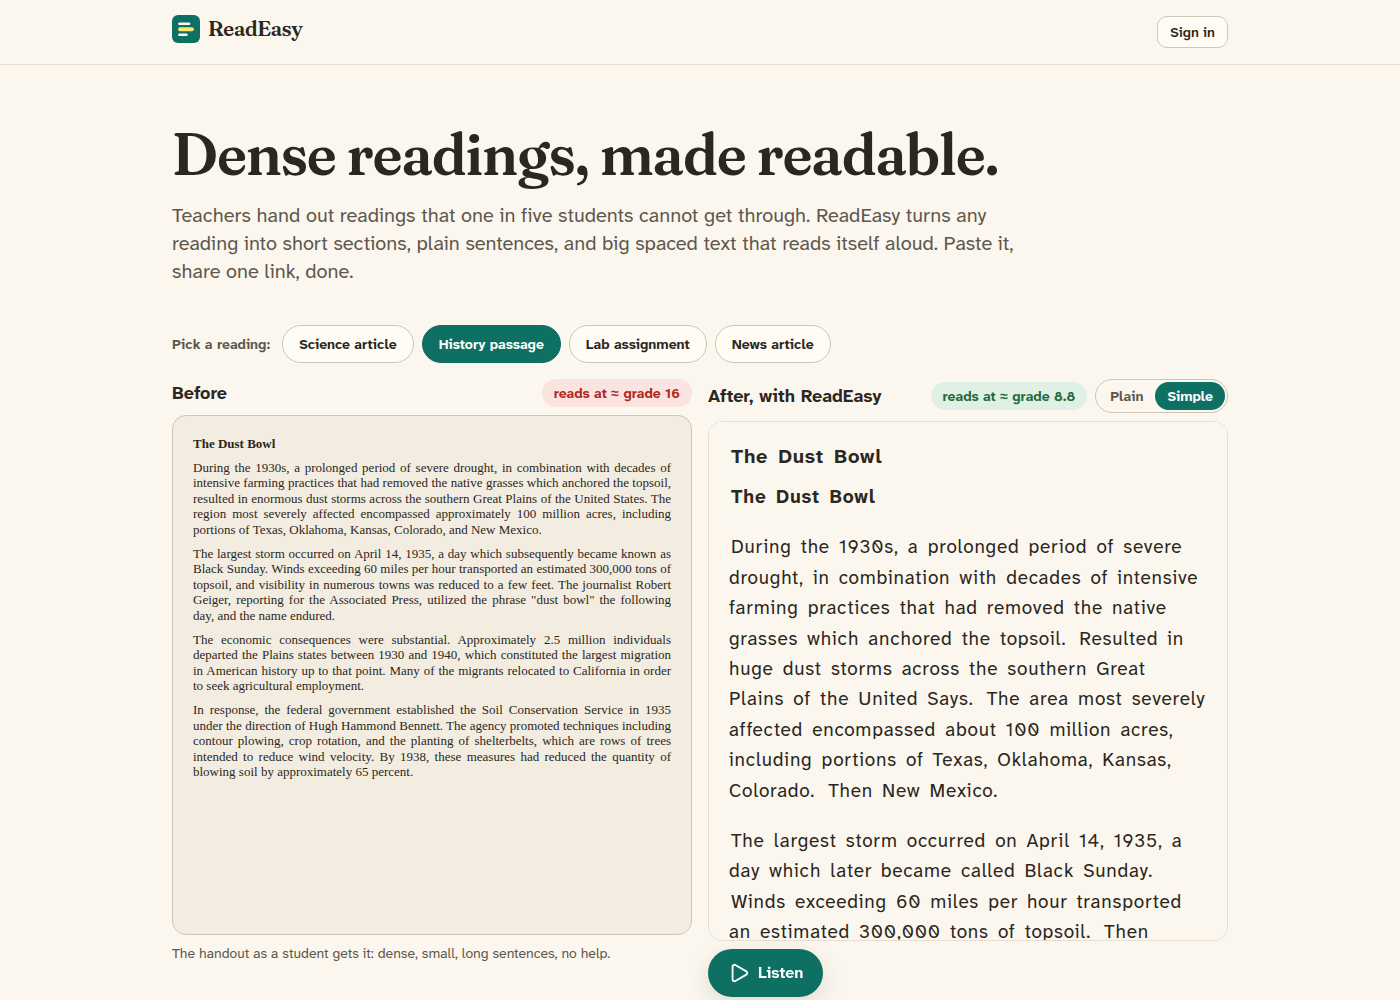
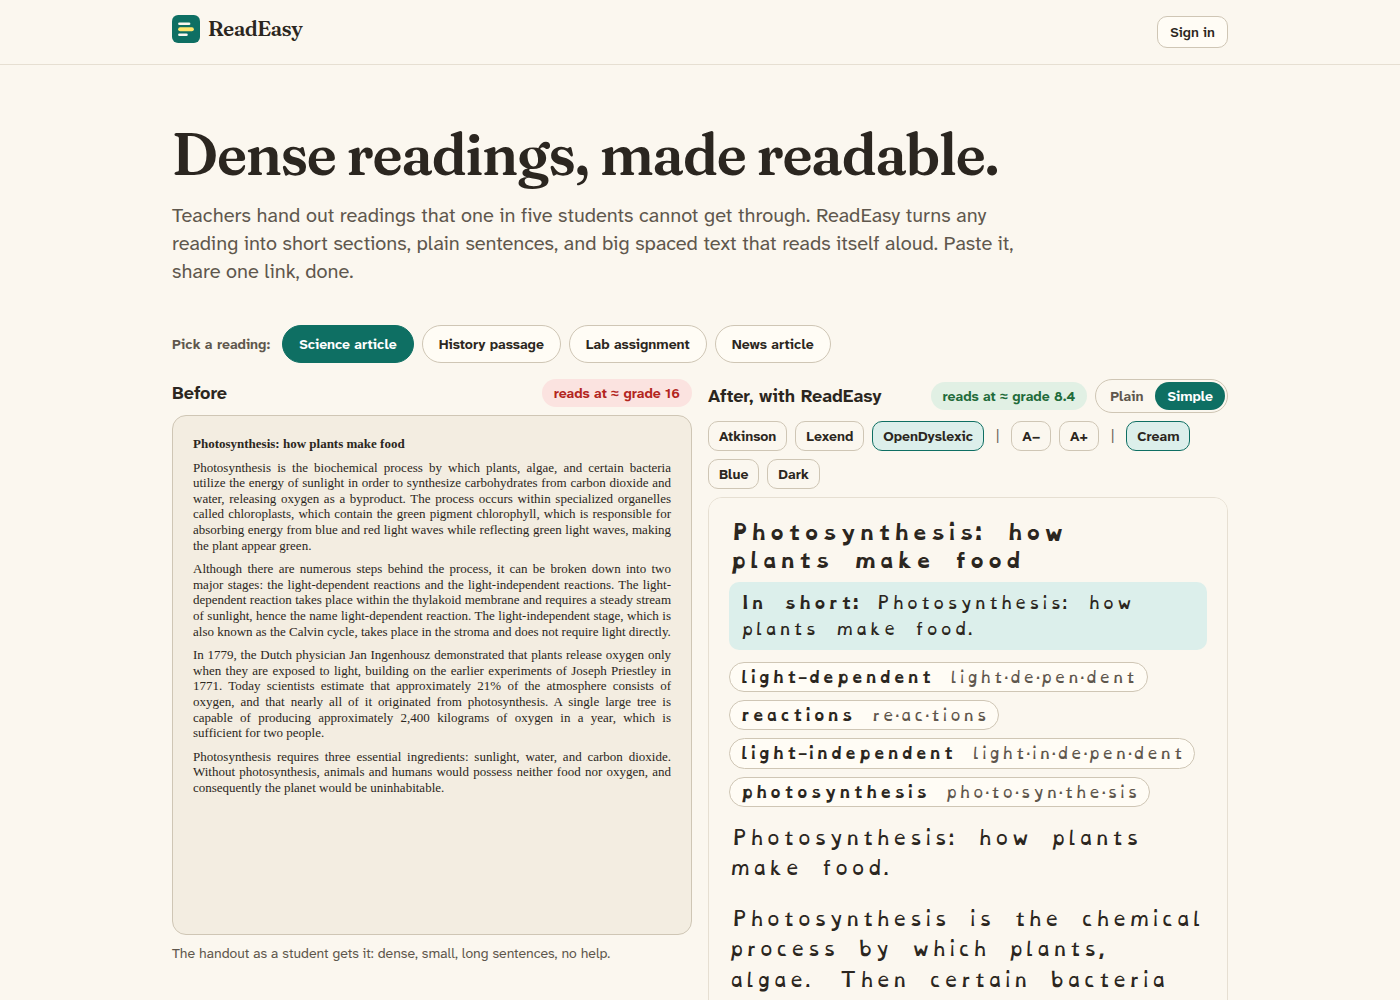
feat: stronger Simple rewrites and live reading settings in the demo
The adapter drops filler phrases, swaps about 80 more academic words and
verbs, and caps Simple sentences near 14 words. The landing demo's After
panel adds font (Atkinson, Lexend, OpenDyslexic), text size, and
background controls, an "In short" lead per section, and key words with
syllable breaks, so the reading supports are visible without an account.

Claude-Session: https://claude.ai/code/session_01D6wbTmJEeRBNkAtFhpGSF5

Changed region(s): [[0.1229, 0.403, 0.86, 1.0], [0.1843, 0.31, 0.3993, 0.372], [0.7986, 0.403, 0.86, 0.465]]

diff --git a/src/components/before-after.tsx b/src/components/before-after.tsx
@@ -9,15 +9,32 @@ import { SAMPLES, type Sample } from "@/lib/samples";
 import { chunkIntoSections, structureText } from "@/lib/text/chunk";
 import { simplifyContent, type Level } from "@/lib/text/simplify";
 import { estimateReadability, plainText } from "@/lib/text/readability";
+import { pickKeyWords } from "@/lib/text/wordpreview";
+import { syllabify } from "@/lib/text/syllables";
 import { createTtsEngine, type SpeakUnit, type TtsEngine, type TtsState } from "@/lib/tts";
 import type { SectionContent } from "@/lib/content/types";
 
 // The whole adaptation runs in the browser here (no server, no account), so
 // judges can click a sample and see the result instantly.
+function firstSentence(c: SectionContent): string {
+  for (const b of c.blocks) {
+    if (b.type === "paragraph" && b.sentences[0]) return b.sentences[0];
+    if (b.type === "list" && b.items[0]?.[0]) return b.items[0][0];
+  }
+  return "";
+}
+
 function adapt(text: string, level: Level) {
   const sections = chunkIntoSections(structureText(text));
-  return sections.map((s) => ({ title: s.title, original: s.original, adapted: simplifyContent(s.original, level) }));
+  return sections.map((s) => {
+    const adapted = simplifyContent(s.original, level);
+    const words = pickKeyWords(plainText(s.original), 4).map((w) => ({ word: w, syllables: syllabify(w) }));
+    return { title: s.title, original: s.original, adapted, lead: firstSentence(adapted), words };
+  });
 }
+
+type Font = "default" | "lexend" | "opendyslexic";
+type Bg = "cream" | "blue" | "dark";
 
 function units(sections: { title: string; adapted: SectionContent }[]): SpeakUnit[] {
   const out: SpeakUnit[] = [];
@@ -39,6 +56,9 @@ export function BeforeAfter() {
   const [state, setState] = useState<TtsState>("idle");
   const [current, setCurrent] = useState<string | null>(null);
   const [busy, setBusy] = useState(false);
+  const [font, setFont] = useState<Font>("default");
+  const [size, setSize] = useState(19);
+  const [bg, setBg] = useState<Bg>("cream");
   const engine = useRef<TtsEngine | null>(null);
 
   const sections = useMemo(() => adapt(sample.text, level), [sample, level]);
@@ -128,10 +148,28 @@ export function BeforeAfter() {
               </div>
             </div>
           </div>
-          <div data-reading-bg="cream" className="h-[520px] overflow-auto rounded-lg border border-border bg-surface p-5 text-ink" style={{ fontSize: 19, lineHeight: 1.6, letterSpacing: "0.04em", wordSpacing: "0.16em", maxWidth: "100%" }} aria-label="Adapted reading">
+          <div className="flex flex-wrap items-center gap-2 text-sm" role="group" aria-label="Reading settings">
+            {([["default", "Atkinson"], ["lexend", "Lexend"], ["opendyslexic", "OpenDyslexic"]] as const).map(([v, label]) => (
+              <button key={v} type="button" aria-pressed={font === v} onClick={() => setFont(v)} className={clsx("rounded-md border px-2.5 py-1 font-bold", font === v ? "border-accent bg-accent-soft" : "border-border-strong")}>{label}</button>
+            ))}
+            <span className="mx-1 text-ink-faint">|</span>
+            <button type="button" aria-label="Smaller text" onClick={() => setSize((n) => Math.max(15, n - 2))} className="rounded-md border border-border-strong px-2.5 py-1 font-bold">A−</button>
+            <button type="button" aria-label="Bigger text" onClick={() => setSize((n) => Math.min(30, n + 2))} className="rounded-md border border-border-strong px-2.5 py-1 font-bold">A+</button>
+            <span className="mx-1 text-ink-faint">|</span>
+            {([["cream", "Cream"], ["blue", "Blue"], ["dark", "Dark"]] as const).map(([v, label]) => (
+              <button key={v} type="button" aria-pressed={bg === v} onClick={() => setBg(v)} className={clsx("rounded-md border px-2.5 py-1 font-bold", bg === v ? "border-accent bg-accent-soft" : "border-border-strong")}>{label}</button>
+            ))}
+          </div>
+          <div data-reading-bg={bg} className={clsx("h-[520px] overflow-auto rounded-lg border border-border bg-surface p-5 text-ink", font === "lexend" ? "font-lexend" : font === "opendyslexic" ? "font-opendyslexic" : "font-sans")} style={{ fontSize: size, lineHeight: 1.6, letterSpacing: "0.04em", wordSpacing: "0.16em", maxWidth: "100%" }} aria-label="Adapted reading">
             {sections.map((s, si) => (
-              <section key={si} className="mb-7">
-                <h4 className="mb-3 text-xl font-bold"><Sentence id={`${si}-t`} text={s.title} /></h4>
+              <section key={si} className="mb-8">
+                <h4 className="mb-2 text-xl font-bold"><Sentence id={`${si}-t`} text={s.title} /></h4>
+                {s.lead && <p className="mb-3 rounded-md bg-accent-soft px-3 py-2 text-ink" style={{ fontSize: "0.85em" }}><span className="font-bold">In short:</span> {s.lead}</p>}
+                {s.words.length > 0 && (
+                  <p className="mb-4 flex flex-wrap gap-2" style={{ fontSize: "0.8em" }} aria-label="Key words with syllables">
+                    {s.words.map((w) => <span key={w.word} className="rounded-full border border-border-strong bg-surface-raised px-2.5 py-0.5"><span className="font-bold">{w.word}</span> <span className="text-ink-muted">{w.syllables.join("·")}</span></span>)}
+                  </p>
+                )}
                 <div className="flex flex-col gap-5">
                   {s.adapted.blocks.map((b, bi) => {
                     if (b.type === "heading") return <p key={bi} className="font-bold"><Sentence id={`${si}-${bi}-0`} text={b.text} /></p>;

diff --git a/src/lib/text/simplify.ts b/src/lib/text/simplify.ts
@@ -81,6 +81,27 @@ const VERBS: Record<string, [string, string, string, string]> = {
   depict: ["show", "shows", "showed", "showing"],
   state: ["say", "says", "said", "saying"],
   reveal: ["show", "shows", "showed", "showing"],
+  synthesize: ["make", "makes", "made", "making"],
+  encompass: ["cover", "covers", "covered", "covering"],
+  transport: ["carry", "carries", "carried", "carrying"],
+  relocate: ["move", "moves", "moved", "moving"],
+  endure: ["last", "lasts", "lasted", "lasting"],
+  designate: ["set aside", "sets aside", "set aside", "setting aside"],
+  conduct: ["run", "runs", "ran", "running"],
+  originate: ["come", "comes", "came", "coming"],
+  position: ["place", "places", "placed", "placing"],
+  analyze: ["study", "studies", "studied", "studying"],
+  analyse: ["study", "studies", "studied", "studying"],
+  ensure: ["make sure", "makes sure", "made sure", "making sure"],
+  propose: ["suggest", "suggests", "suggested", "suggesting"],
+  submit: ["hand in", "hands in", "handed in", "handing in"],
+  influence: ["affect", "affects", "affected", "affecting"],
+  promote: ["push for", "pushes for", "pushed for", "pushing for"],
+  exceed: ["go over", "goes over", "went over", "going over"],
+  accompany: ["go with", "goes with", "went with", "going with"],
+  anchor: ["hold down", "holds down", "held down", "holding down"],
+  expose: ["put", "puts", "put", "putting"],
+  announce: ["say", "says", "said", "saying"],
 };
 
 const VERB_FORMS = new Map<string, string>();
@@ -116,7 +137,20 @@ const WORDS: Record<string, string> = {
   nutrients: "food", nutrition: "food", consumption: "use", utilization: "use", production: "making", construction: "building",
   organism: "living thing", organisms: "living things", species: "kinds of living things", habitat: "home", habitats: "homes",
   precipitation: "rain or snow", atmosphere: "air", vegetation: "plants",
+  prolonged: "long", severe: "very bad", intensive: "heavy", catastrophic: "terrible", devastating: "terrible",
+  consequences: "effects", consequence: "effect", employment: "work", techniques: "ways", technique: "way",
+  quantity: "amount", quantities: "amounts", estimated: "about", initiative: "plan", respondents: "people who answered",
+  byproduct: "leftover", specialized: "special", biochemical: "chemical", carbohydrates: "sugars", uninhabitable: "impossible to live on",
+  physician: "doctor", journalist: "reporter", migration: "move", migrants: "people who moved", agricultural: "farm",
+  investigation: "experiment", procedure: "steps", simultaneously: "at the same time",
+  horizontal: "side-to-side", vertical: "up-and-down", hypothesis: "best guess", relationship: "link",
+  regardless: "no matter what", portions: "parts",
+  permitted: "allowed", required: "needed", obtained: "got", demonstrations: "shows", collection: "set",
+  equipment: "gear", household: "home", cardholders: "members", renewed: "extended", period: "time",
+  anticipates: "expects", designated: "set aside", conducted: "run", prevented: "stopped",
 };
+
+const FILLERS = /\b(basically|essentially|actually|in fact|of course|indeed|as a matter of fact|it is important to note that|it should be noted that|in other words|needless to say|for all intents and purposes)\b,?\s*/gi;
 
 const PHRASES: [RegExp, string][] = [
   [/\bin order to\b/gi, "to"],
@@ -184,7 +218,7 @@ function keepCase(original: string, replacement: string): string {
 }
 
 export function swapVocabulary(sentence: string): string {
-  let s = sentence;
+  let s = sentence.replace(FILLERS, "");
   for (const [re, rep] of PHRASES) s = s.replace(re, (m) => keepCase(m, rep));
   s = s.replace(/\b([A-Za-z]+)\b/g, (m) => {
     const lower = m.toLowerCase();
@@ -258,8 +292,8 @@ export function simplifySentence(sentence: string, level: Level): string[] {
   // Simple: long remaining sentences are split again at the first comma past the middle,
   // unless they open with a subordinate clause (splitting "While X, Y" leaves a fragment).
   return parts.flatMap((p) => {
-    if (words(p) <= 18 || /^(while|although|because|if|when|since|after|before|unless|even though|as|once|until|whenever)\b/i.test(p)) return [p];
-    const half = Math.floor(p.length / 2);
+    if (words(p) <= 14 || /^(while|although|because|if|when|since|after|before|unless|even though|as|once|until|whenever)\b/i.test(p)) return [p];
+    const half = Math.floor(p.length * 0.4);
     const idx = p.indexOf(", ", half);
     if (idx === -1) return [p];
     return [finish(p.slice(0, idx)), finish(p.slice(idx + 2))].filter(Boolean);
